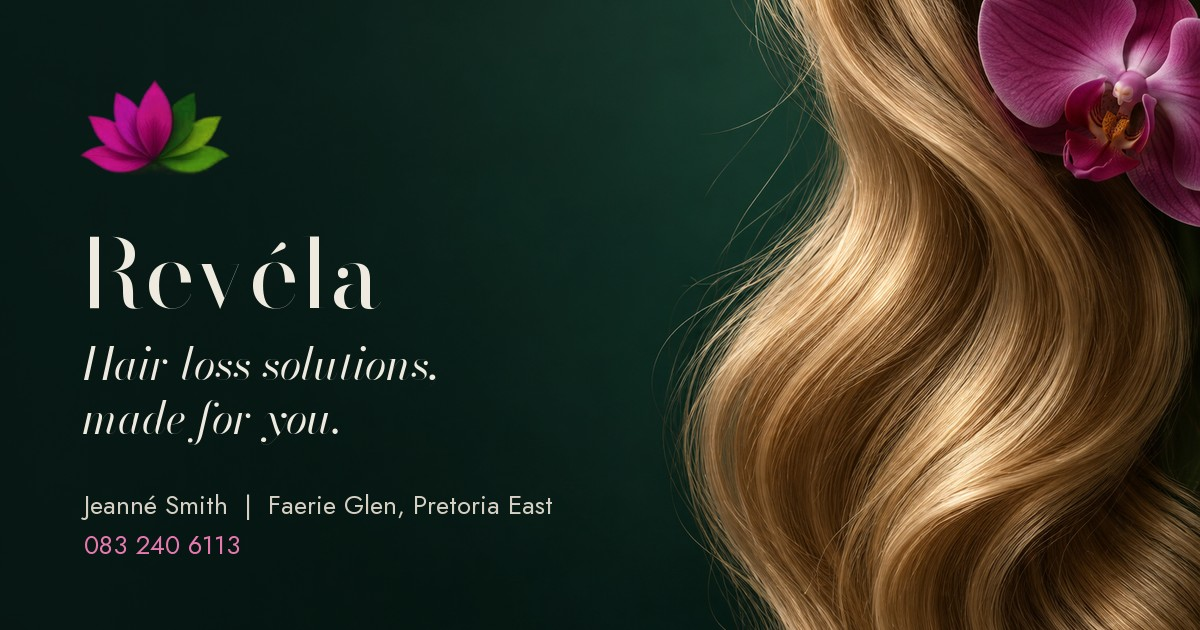
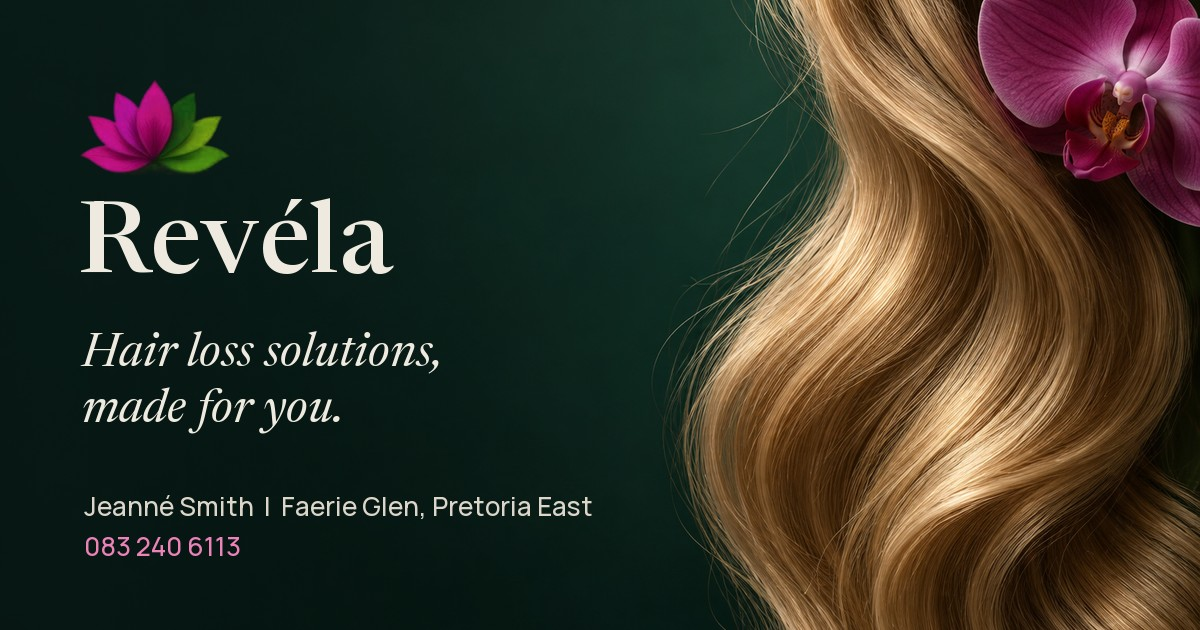
Switch to Newsreader and Manrope for easier reading on mobile
Replace Bodoni Moda and Jost, which repeat across other client sites,
with a sturdier serif and an open sans. Enlarge body text and brighten
secondary text on phones. Rebuild the share image in the new type.

Changed region(s): [[0.0617, 0.3016, 0.3392, 0.5127], [0.0617, 0.5429, 0.37, 0.6937], [0.0617, 0.7841, 0.4933, 0.9048]]

diff --git a/assets/css/site.css b/assets/css/site.css
@@ -7,13 +7,13 @@
   --line:rgba(236,232,222,.14);
   --line-2:rgba(236,232,222,.26);
   --bone:#ece8de;
-  --mute:#b9c1b6;
+  --mute:#c4ccc1;
   --orchid:#c2287a;
   --orchid-ink:#a81f68;
   --orchid-soft:#ea86b9;
   --r:4px;
-  --serif:"Bodoni Moda", "Didot", "Bodoni 72", Georgia, serif;
-  --sans:"Jost", "Futura", "Century Gothic", system-ui, sans-serif;
+  --serif:"Newsreader", "Iowan Old Style", Georgia, serif;
+  --sans:"Manrope", "Segoe UI", system-ui, -apple-system, sans-serif;
   --wrap:1240px;
   --gut:clamp(20px,4vw,48px);
   --ease:cubic-bezier(.16,1,.3,1);
@@ -21,7 +21,7 @@
 }
 *,*::before,*::after{box-sizing:border-box}
 html{-webkit-text-size-adjust:100%;scroll-behavior:smooth;scroll-padding-top:84px}
-body{margin:0;background:var(--night);color:var(--bone);font-family:var(--sans);font-size:clamp(16px,1.05vw,17.5px);line-height:1.65;font-weight:400;-webkit-font-smoothing:antialiased;text-rendering:optimizeLegibility;overflow-x:hidden}
+body{margin:0;background:var(--night);color:var(--bone);font-family:var(--sans);font-size:clamp(16.5px,1.05vw,17.5px);line-height:1.7;font-weight:400;-webkit-font-smoothing:antialiased;text-rendering:optimizeLegibility;overflow-x:hidden}
 img,picture,video,iframe{display:block;max-width:100%}
 img{height:auto}
 a{color:inherit}
@@ -34,7 +34,7 @@ button,input,select,textarea{font:inherit;color:inherit}
 .skip:focus{top:12px}
 
 /* Type */
-h1,h2,h3{font-family:var(--serif);font-weight:400;line-height:1.08;letter-spacing:-.01em;margin:0;font-optical-sizing:auto}
+h1,h2,h3{font-family:var(--serif);font-weight:500;line-height:1.1;letter-spacing:-.015em;margin:0;font-optical-sizing:auto}
 h2{font-size:clamp(2.1rem,4.2vw,3.6rem)}
 h3{font-size:clamp(1.35rem,1.9vw,1.7rem);line-height:1.2}
 p{margin:0 0 1em}
@@ -43,7 +43,7 @@ p{margin:0 0 1em}
 em.i{font-style:italic}
 
 /* Buttons */
-.btn{display:inline-flex;align-items:center;justify-content:center;gap:.6em;white-space:nowrap;min-height:50px;padding:0 1.6em;border-radius:999px;font-weight:500;font-size:.98rem;letter-spacing:.01em;text-decoration:none;border:1px solid transparent;cursor:pointer;transition:background-color .3s var(--ease),color .3s var(--ease),border-color .3s var(--ease),transform .2s var(--ease)}
+.btn{display:inline-flex;align-items:center;justify-content:center;gap:.6em;white-space:nowrap;min-height:50px;padding:0 1.6em;border-radius:999px;font-weight:600;font-size:.97rem;letter-spacing:0;text-decoration:none;border:1px solid transparent;cursor:pointer;transition:background-color .3s var(--ease),color .3s var(--ease),border-color .3s var(--ease),transform .2s var(--ease)}
 .btn:active{transform:translateY(1px) scale(.985)}
 .btn-primary{background:linear-gradient(180deg,#cc3386,var(--orchid));color:#fff;box-shadow:inset 0 1px 0 rgba(255,255,255,.18),0 10px 28px -12px rgba(194,40,122,.7)}
 .btn-primary:hover{background:linear-gradient(180deg,var(--orchid),var(--orchid-ink));transform:translateY(-1px);box-shadow:inset 0 1px 0 rgba(255,255,255,.18),0 16px 34px -14px rgba(194,40,122,.85)}
@@ -78,9 +78,9 @@ em.i{font-style:italic}
 .hero-media img{width:100%;height:100%;object-fit:cover;object-position:100% 50%}
 .hero::after{content:"";position:absolute;inset:0;z-index:-1;background:linear-gradient(180deg,rgba(11,32,27,.7) 0,rgba(11,32,27,0) 150px),linear-gradient(90deg,rgba(11,32,27,.78) 0%,rgba(11,32,27,.45) 38%,rgba(11,32,27,0) 60%),linear-gradient(0deg,rgba(14,38,33,1) 0%,rgba(14,38,33,1) 3%,rgba(14,38,33,0) 30%)}
 .hero-copy{max-width:820px}
-.hero h1{font-size:clamp(2.5rem,4.3vw,4rem);line-height:1.04;letter-spacing:-.018em;margin-bottom:28px}
+.hero h1{font-size:clamp(2.45rem,4.3vw,4.1rem);line-height:1.06;letter-spacing:-.02em;margin-bottom:28px}
 .hero h1 .line{display:block;padding-bottom:.06em}
-.hero h1 .line:last-child{font-style:italic}
+.hero h1 .line:last-child{font-style:italic;font-weight:400}
 .hero .lede{color:#d4d6cc;margin-bottom:36px;max-width:44ch}
 .cta-row{display:flex;flex-wrap:wrap;gap:12px}
 
@@ -103,7 +103,7 @@ em.i{font-style:italic}
 .truths{display:grid;grid-template-columns:repeat(3,minmax(0,1fr));gap:0;border-top:1px solid var(--line)}
 .truths div{padding:28px 28px 0 0}
 .truths div + div{padding-left:28px;border-left:1px solid var(--line)}
-.truths strong{display:block;font-family:var(--serif);font-weight:400;font-size:1.5rem;line-height:1.2;margin-bottom:8px}
+.truths strong{display:block;font-family:var(--serif);font-weight:500;font-size:1.5rem;line-height:1.2;margin-bottom:8px}
 .truths p{color:var(--mute);margin:0;max-width:30ch}
 @media (min-width:1000px){.statement{grid-template-columns:1.15fr 1fr;align-items:end}.truths{grid-template-columns:1fr;border-top:0}.truths div,.truths div + div{padding:22px 0;border-left:0;border-top:1px solid var(--line)}}
 
@@ -216,7 +216,7 @@ em.i{font-style:italic}
 .reviews footer{font-size:.92rem;color:var(--mute)}
 .reviews footer strong{display:block;color:var(--bone);font-weight:500;font-size:1rem}
 .rec{display:flex;align-items:center;gap:12px;color:var(--mute)}
-.rec b{font-family:var(--serif);font-weight:400;font-size:2.4rem;color:var(--bone);line-height:1}
+.rec b{font-family:var(--serif);font-weight:500;font-size:2.4rem;color:var(--bone);line-height:1}
 
 /* Salon gallery */
 .salon-grid{display:grid;grid-template-columns:1.2fr .8fr .8fr;grid-template-rows:auto auto;gap:16px;margin-top:48px}
@@ -369,6 +369,16 @@ body::after{content:"";position:fixed;inset:0;z-index:60;pointer-events:none;opa
   .wa-float{display:grid}
 }
 @media (max-width:560px){
+  body{font-size:17px;line-height:1.72}
+  .lede{font-size:1.08rem}
+  .hero h1{font-size:2.55rem;line-height:1.08}
+  h2{font-size:2.15rem;line-height:1.12}
+  .statement blockquote{font-size:1.75rem;line-height:1.28}
+  .sol-tab{font-size:1.5rem}
+  .facts li,.chips li{font-size:.95rem}
+  .tf-cap,.pair p,.about-portrait figcaption,.about-team figcaption,.contact-list small,.form-foot,.field .help{font-size:.97rem}
+  .reviews blockquote p{font-size:1.2rem}
+  .foot{font-size:1rem}
   .truths{grid-template-columns:1fr}
   .truths div,.truths div + div{padding:20px 0;border-left:0;border-top:1px solid var(--line)}
   .truths{border-top:0}

diff --git a/index.html b/index.html
@@ -36,7 +36,7 @@
 
 <link rel="preconnect" href="https://fonts.googleapis.com">
 <link rel="preconnect" href="https://fonts.gstatic.com" crossorigin>
-<link rel="stylesheet" href="https://fonts.googleapis.com/css2?family=Bodoni+Moda:ital,opsz,wght@0,6..96,400..600;1,6..96,400..500&family=Jost:wght@300..600&display=swap">
+<link rel="stylesheet" href="https://fonts.googleapis.com/css2?family=Manrope:wght@400..700&family=Newsreader:ital,opsz,wght@0,6..72,400..600;1,6..72,400..500&display=swap">
 <link rel="stylesheet" href="https://unpkg.com/@phosphor-icons/web@2.1.1/src/light/style.css">
 <link rel="preload" as="image" href="assets/img/hero.webp" media="(min-width: 901px)" fetchpriority="high">
 <link rel="preload" as="image" href="assets/img/hero-mobile.webp" media="(max-width: 900px)" fetchpriority="high">

diff --git a/404.html b/404.html
@@ -24,7 +24,7 @@
 <link rel="manifest" href="/Revela/site.webmanifest">
 <link rel="preconnect" href="https://fonts.googleapis.com">
 <link rel="preconnect" href="https://fonts.gstatic.com" crossorigin>
-<link rel="stylesheet" href="https://fonts.googleapis.com/css2?family=Bodoni+Moda:ital,opsz,wght@0,6..96,400..600;1,6..96,400..500&family=Jost:wght@300..600&display=swap">
+<link rel="stylesheet" href="https://fonts.googleapis.com/css2?family=Manrope:wght@400..700&family=Newsreader:ital,opsz,wght@0,6..72,400..600;1,6..72,400..500&display=swap">
 <link rel="stylesheet" href="/Revela/assets/css/site.css">
 </head>
 <body>

diff --git a/cookies/index.html b/cookies/index.html
@@ -24,7 +24,7 @@
 <link rel="manifest" href="../site.webmanifest">
 <link rel="preconnect" href="https://fonts.googleapis.com">
 <link rel="preconnect" href="https://fonts.gstatic.com" crossorigin>
-<link rel="stylesheet" href="https://fonts.googleapis.com/css2?family=Bodoni+Moda:ital,opsz,wght@0,6..96,400..600;1,6..96,400..500&family=Jost:wght@300..600&display=swap">
+<link rel="stylesheet" href="https://fonts.googleapis.com/css2?family=Manrope:wght@400..700&family=Newsreader:ital,opsz,wght@0,6..72,400..600;1,6..72,400..500&display=swap">
 <link rel="stylesheet" href="../assets/css/site.css">
 </head>
 <body>

diff --git a/privacy/index.html b/privacy/index.html
@@ -24,7 +24,7 @@
 <link rel="manifest" href="../site.webmanifest">
 <link rel="preconnect" href="https://fonts.googleapis.com">
 <link rel="preconnect" href="https://fonts.gstatic.com" crossorigin>
-<link rel="stylesheet" href="https://fonts.googleapis.com/css2?family=Bodoni+Moda:ital,opsz,wght@0,6..96,400..600;1,6..96,400..500&family=Jost:wght@300..600&display=swap">
+<link rel="stylesheet" href="https://fonts.googleapis.com/css2?family=Manrope:wght@400..700&family=Newsreader:ital,opsz,wght@0,6..72,400..600;1,6..72,400..500&display=swap">
 <link rel="stylesheet" href="../assets/css/site.css">
 </head>
 <body>

diff --git a/terms/index.html b/terms/index.html
@@ -24,7 +24,7 @@
 <link rel="manifest" href="../site.webmanifest">
 <link rel="preconnect" href="https://fonts.googleapis.com">
 <link rel="preconnect" href="https://fonts.gstatic.com" crossorigin>
-<link rel="stylesheet" href="https://fonts.googleapis.com/css2?family=Bodoni+Moda:ital,opsz,wght@0,6..96,400..600;1,6..96,400..500&family=Jost:wght@300..600&display=swap">
+<link rel="stylesheet" href="https://fonts.googleapis.com/css2?family=Manrope:wght@400..700&family=Newsreader:ital,opsz,wght@0,6..72,400..600;1,6..72,400..500&display=swap">
 <link rel="stylesheet" href="../assets/css/site.css">
 </head>
 <body>
